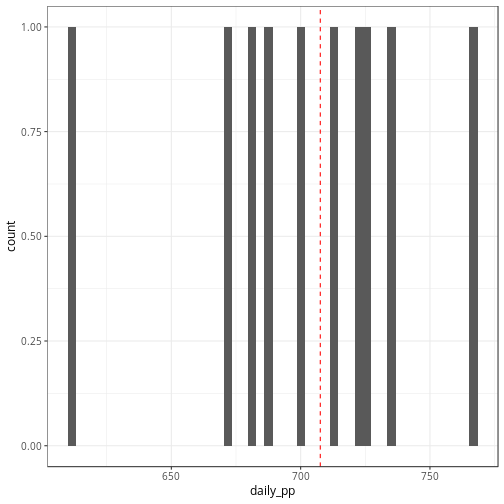
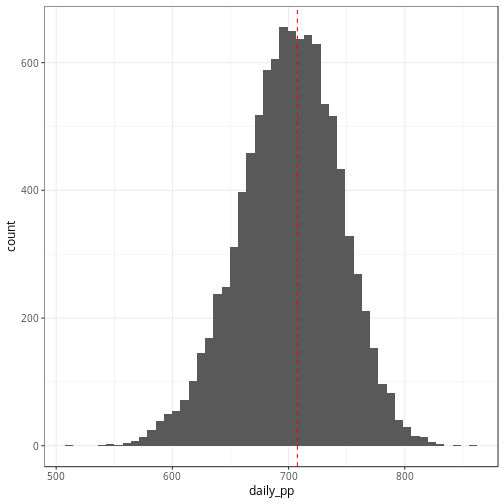
update the calculation

diff --git a/reports/pp.md b/reports/pp.md
@@ -8,7 +8,7 @@
 # <><><><><><><><><><><><><><><><><><><><><><><><><><><><><><><><><><><><><><>
 ```
 
-Last updated: 2016-11-30 10:12:25
+Last updated: 2016-11-30 10:13:19
 ## Open the PS file and do some cleaning
 
 
@@ -228,7 +228,7 @@ For each P vs E curve, I generate *n* simulated curves based a multivariate norm
 
 ```r
 mod <- mod %>% 
-  mutate(simulation = map2(model, data, simul, n = 10)) # 10 simulations per depth
+  mutate(simulation = map2(model, data, simul, n = 10000)) # 10 simulations per depth
 
 p <- map2(mod$simulation, mod$depth, plot_simulations)
 
@@ -297,11 +297,12 @@ daily_pp %>%
 
 
 ```r
-sd(daily_pp$daily_pp)
+error <- sd(daily_pp$daily_pp)
+error
 ```
 
 ```
-## [1] 42.48122
+## [1] 42.66696
 ```
 
-Hence, the value of 707.5933622
+Hence, the value of 707.5933622 +- 42.6669556 should be reported in the paper.
